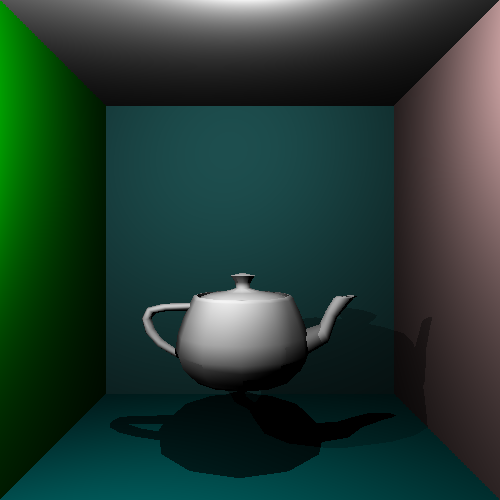
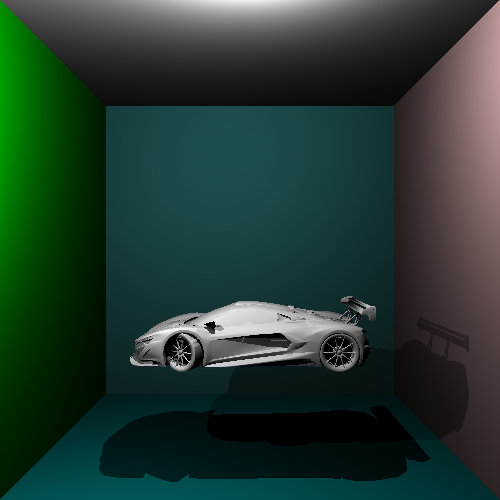
Test scenes finished for presentation

Changed region(s): [[0.24, 0.54, 0.75, 0.78], [0.18, 0.81, 0.87, 0.99]]

diff --git a/rt/src/rt/testscenes/BSPTeapotLand.java b/rt/src/rt/testscenes/BSPTeapotLand.java
@@ -62,10 +62,9 @@ public class BSPTeapotLand extends Scene {
 		objects = new IntersectableList();
 
 		// Ground plane
-//		Plane plane = new Plane(new Vector3f(0.f, 1.f, 0.f), 1.f);
-//		plane.material = new XYZCheckerboard();
-				
-		//objects.add(plane);
+		Plane plane = new Plane(new Vector3f(0.f, 1.f, 0.f), 1.f);
+		plane.material = new XYZCheckerboard();
+		objects.add(plane);
 		
 		/*
 		 * Load the teapot model
@@ -73,7 +72,6 @@ public class BSPTeapotLand extends Scene {
 		Mesh mesh;
 		try
 		{
-			
 			mesh = ObjReader.read("obj/teapot.obj", 0.3f);
 		} catch(IOException e) 
 		{
@@ -81,14 +79,17 @@ public class BSPTeapotLand extends Scene {
 			return;
 		}
 
-		BSPAccelerator teapotAccelerator = new BSPAccelerator(5, 10);
+		int nTriangles = mesh.count();
+		int maxTeapotDepth = (int) Math.ceil(8 + 1.3 * Math.log(nTriangles));
+
+		BSPAccelerator teapotAccelerator = new BSPAccelerator(5, maxTeapotDepth);
 		teapotAccelerator.construct(mesh);
 
 		// Holds all teapots
 		IntersectableList teapots = new IntersectableList();
 
-		int numX = 10;
-		int numY = 10;
+		int numX = 20;
+		int numY = 20;
 		float dx = 0.7f;
 		float dy = 0.7f;
 
@@ -111,6 +112,7 @@ public class BSPTeapotLand extends Scene {
 				transf.setTranslation(p);
 
 				Instance teapotInstance = new Instance(teapotAccelerator, transf);
+				//Instance teapotInstance = new Instance(mesh, transf);
 				teapots.add(teapotInstance);
 			}
 		}
@@ -118,7 +120,8 @@ public class BSPTeapotLand extends Scene {
 		/*
 		 * One final accelerator for all teapot instances
 		 */
-		BSPAccelerator allTeapots = new BSPAccelerator(5, 10);
+		int teapotGridDepth = (int) Math.ceil(8 + 1.3 * Math.log(numX * numY));
+		BSPAccelerator allTeapots = new BSPAccelerator(5, teapotGridDepth);
 		allTeapots.construct(teapots);
 
 		objects.add(allTeapots);

diff --git a/rt/src/rt/testscenes/BSPTeapotTest.java b/rt/src/rt/testscenes/BSPTeapotTest.java
@@ -80,14 +80,16 @@ public class BSPTeapotTest extends Scene {
 		try
 		{
 			
-			mesh = ObjReader.read("obj/teapot.obj", 1.f);
+			mesh = ObjReader.read("obj/Specter_GT3.obj", 1f);
 		} catch(IOException e) 
 		{
 			System.out.printf("Could not read .obj file\n");
 			return;
 		}
 
-		BSPAccelerator meshAccelerator = new BSPAccelerator(5, 10);
+		//int nTriangles = mesh.count();
+		//int maxDepth = (int) Math.ceil(8 + 1.3 * Math.log(nTriangles));
+		BSPAccelerator meshAccelerator = new BSPAccelerator(5, 20);
 		meshAccelerator.construct(mesh);
 
 
@@ -96,7 +98,7 @@ public class BSPTeapotTest extends Scene {
 		
 
 		t.setScale(0.5f);
-		t.setTranslation(new Vector3f(0.f, -0.35f, 0.f));
+		t.setTranslation(new Vector3f(0.f, -0.35f, 0.1f));
 		Instance instance = new Instance(meshAccelerator, t);
 		objects.add(instance);
 		
